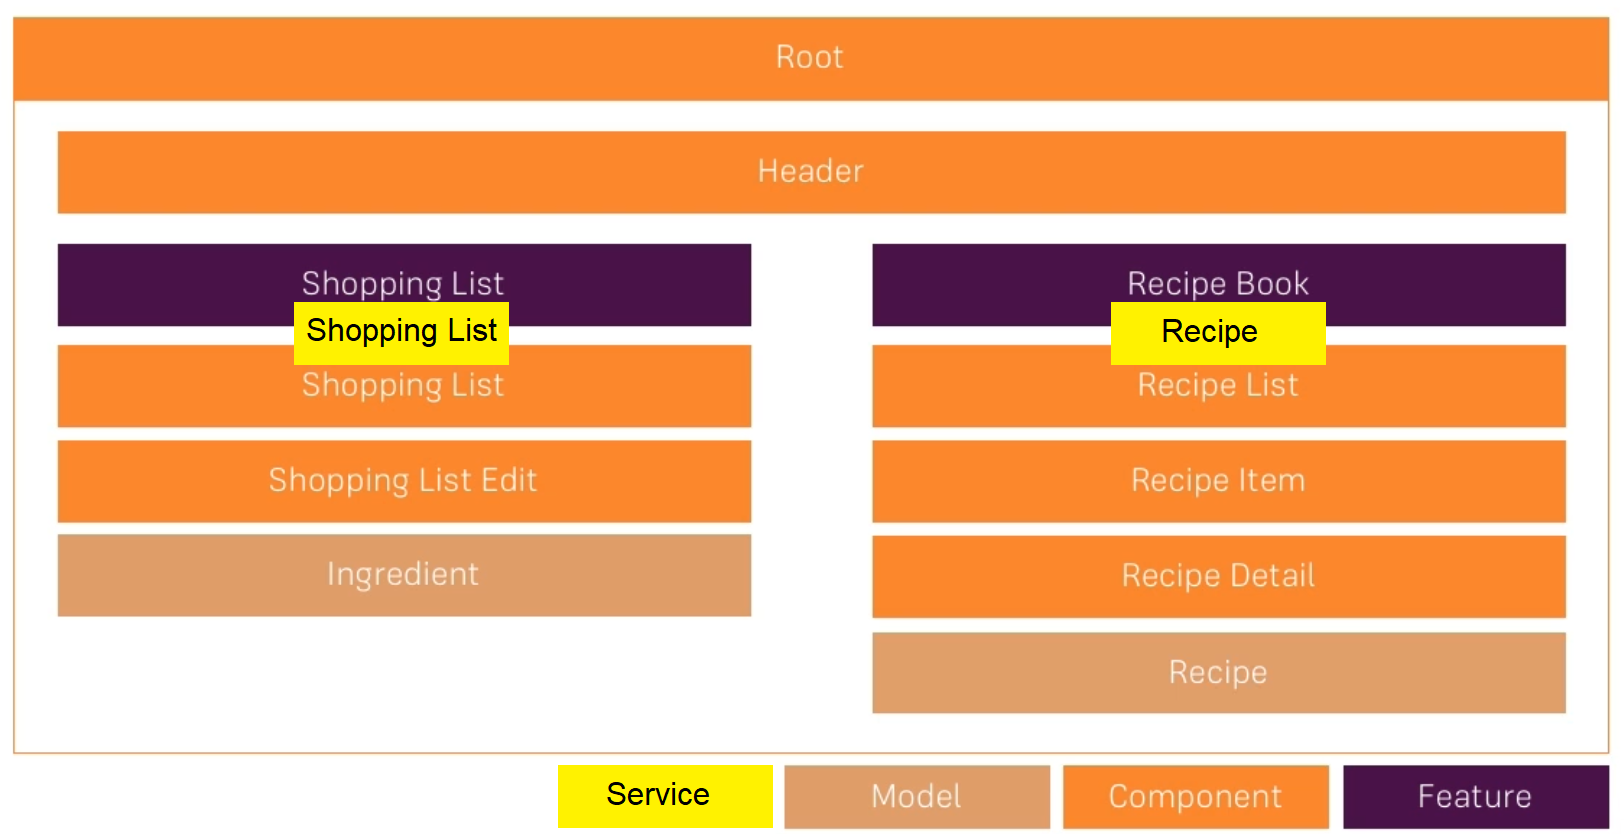
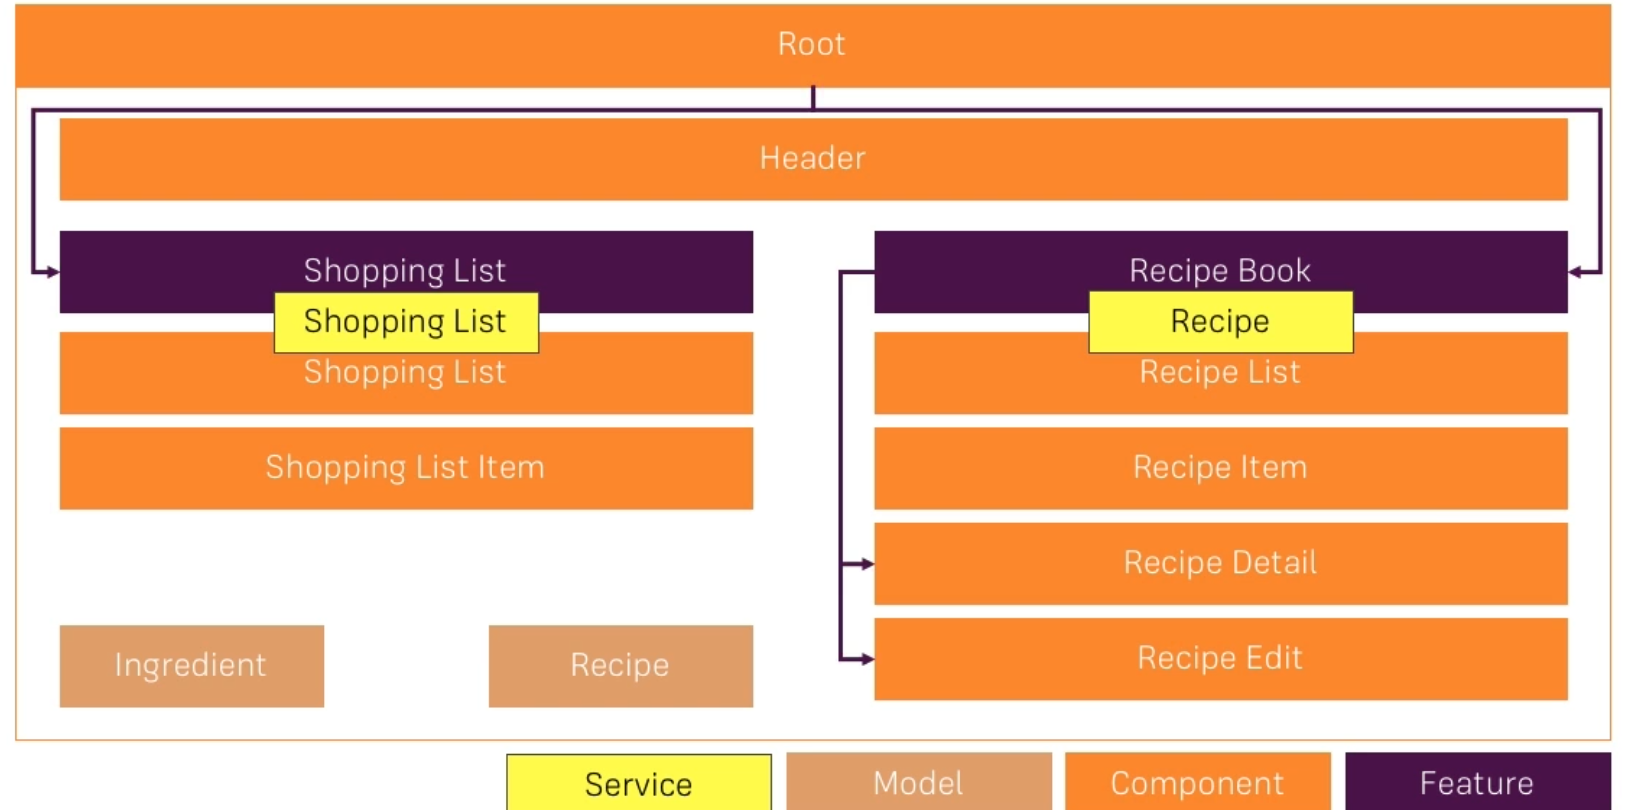
Added Routing
- changing pages using routing
- dummy recipe-edit implementation

diff --git a/src/app/header/header.component.html b/src/app/header/header.component.html
@@ -7,15 +7,15 @@
         </div>
         <div class="collapse navbar-collapse"> <!--collapse class, to access collapse styles-->
             <ul class="nav navbar-nav"> <!--unordered list(ul) for future list of items(links) -->
-                <li><a href="#" (click)="onSelect('recipe')">Recipes</a></li> <!--list item(li) containing a link to the Recipes section-->
-                <li><a href="#" (click)="onSelect('shopping-list')">Shopping List</a></li> <!--Shopping section-->
+                <li routerLinkActive="active"><a routerLink="/recipes">Recipes</a></li> <!--list item(li) containing a link to the Recipes section-->
+                <li routerLinkActive="active"><a routerLink="shopping-list">Shopping List</a></li> <!--Shopping section-->
             </ul>
             <ul class="nav navbar-nav navbar-right"> <!--another area in the header, unordered list, navbar-right used to position on the right-->
                 <li class="dropdown" appDropdown> <!--for options implemented later-->
-                    <a href="#" class="dropdown-toggle" role="button">Manage <span class="caret"></span></a> <!--content of the dropdown <span></span> represents the down arrow next to "Manage"-->
+                    <a style="cursor: pointer;" class="dropdown-toggle" role="button">Manage <span class="caret"></span></a> <!--content of the dropdown <span></span> represents the down arrow next to "Manage"-->
                     <ul class="dropdown-menu"> <!--unordered list to hold the items of the dropdown-->
-                        <li><a href="#">Save Data</a></li> <!--links for saving data-->
-                        <li><a href="#">Fetch Data</a></li> <!--links for fetching data-->
+                        <li><a style="cursor: pointer;">Save Data</a></li> <!--links for saving data-->
+                        <li><a style="cursor: pointer;">Fetch Data</a></li> <!--links for fetching data-->
                     </ul>
                 </li>
             </ul>

diff --git a/src/app/recipes/recipe-detail/recipe-detail.component.ts b/src/app/recipes/recipe-detail/recipe-detail.component.ts
@@ -1,4 +1,6 @@
-import { Component, OnInit, Input } from '@angular/core';
+import { Component, OnInit } from '@angular/core';
+import { ActivatedRoute, Params, Router } from '@angular/router';
+
 import { Recipe } from '../recipe.model';
 import { RecipeService } from '../recipe.service';
 
@@ -8,14 +10,32 @@ import { RecipeService } from '../recipe.service';
   styleUrls: ['./recipe-detail.component.css']
 })
 export class RecipeDetailComponent implements OnInit {
-  @Input() recipe: Recipe;
+  recipe: Recipe;
+  id: number;
   
-  constructor(private recipeService: RecipeService) { }
+  constructor(private recipeService: RecipeService,
+    private route: ActivatedRoute,
+    private router: Router) { }
 
   ngOnInit() {
+    this.route.params
+      .subscribe(
+        (params: Params) => {
+          this.id = params['id'];
+          this.recipe = this.recipeService.getRecipe(this.id);
+        }
+      );
   }
 
   onAddToShoppingList() {
     this.recipeService.addIngredientsToShoppingList(this.recipe.ingredients); //added functionality to push ingredients of selected recipe to the shopping list
   }
+
+  OnEditRecipe() {
+    this.router.navigate(['edit'], {relativeTo: this.route}); //id is not necessary in this case
+    // this.router.navigate(['../', this.id, 'edit'], {relativeTo: this.route}); //we go up one level -../- then we add our id again, and then edit
+  }
+
+  
+  //remember to clear up subscriptions if using personal observables, these ones are Angular managed
 }

diff --git a/src/app/app.module.ts b/src/app/app.module.ts
@@ -13,6 +13,9 @@ import { ShoppingListComponent } from './shopping-list/shopping-list.component';
 import { ShoppingEditComponent } from './shopping-list/shopping-edit/shopping-edit.component';
 import { DropdownDirective } from './shared/dropdown.directive';
 import { ShoppingListService } from './shopping-list/shopping-list.service';
+import { AppRoutingModule } from './app-routing.module';
+import { RecipeStartComponent } from './recipes/recipe-start/recipe-start.component';
+import { RecipeEditComponent } from './recipes/recipe-edit/recipe-edit.component';
 
 
 // VVVVVV Decorator
@@ -26,14 +29,17 @@ import { ShoppingListService } from './shopping-list/shopping-list.service';
     ShoppingListComponent,
     ShoppingEditComponent,
     RecipeItemComponent,
-    DropdownDirective
+    DropdownDirective,
+    RecipeStartComponent,
+    RecipeEditComponent
   ], //register new components
   imports: [
     BrowserModule,
     FormsModule,
-    HttpClientModule
+    HttpClientModule,
+    AppRoutingModule
   ], //allows us to add other modules
-  providers: [ShoppingListService],
+  providers: [ShoppingListService], //added in the AppModule so it is available in the entire application
   bootstrap: [AppComponent] //tells Angular which component needs to be aware when the app starts
 })
 export class AppModule { }

diff --git a/src/app/app-routing.module.ts b/src/app/app-routing.module.ts
@@ -1,11 +1,28 @@
 import { NgModule } from '@angular/core';
 import { Routes, RouterModule } from '@angular/router';
 
+import { RecipesComponent } from './recipes/recipes.component';
+import { ShoppingListComponent } from './shopping-list/shopping-list.component';
+import { RecipeStartComponent } from './recipes/recipe-start/recipe-start.component';
+import { RecipeDetailComponent } from './recipes/recipe-detail/recipe-detail.component';
+import { RecipeEditComponent } from './recipes/recipe-edit/recipe-edit.component';
 
-const routes: Routes = [];
+const appRoutes: Routes = [
+  { path: '', redirectTo: '/recipes', pathMatch: 'full' },
+  { path: 'recipes', component: RecipesComponent, children:[
+    { path: '', component: RecipeStartComponent },
+    { path: 'new', component: RecipeEditComponent},
+    { path: ':id', component: RecipeDetailComponent },
+    { path: ':id/edit', component: RecipeEditComponent}
+  ] },
+  { path: 'shopping-list', component: ShoppingListComponent},
+  
+];
 
 @NgModule({
-  imports: [RouterModule.forRoot(routes)],
+  imports: [RouterModule.forRoot(appRoutes)],
   exports: [RouterModule]
 })
-export class AppRoutingModule { }
+export class AppRoutingModule {
+
+}

diff --git a/src/app/recipes/recipe-list/recipe-list.component.ts b/src/app/recipes/recipe-list/recipe-list.component.ts
@@ -1,6 +1,7 @@
 import { Component, OnInit } from '@angular/core';
 import { Recipe } from '../recipe.model';
 import { RecipeService } from '../recipe.service';
+import { Router, ActivatedRoute } from '@angular/router';
 
 @Component({
   selector: 'app-recipe-list',
@@ -10,9 +11,17 @@ import { RecipeService } from '../recipe.service';
 export class RecipeListComponent implements OnInit {
   recipes: Recipe[];
 
-  constructor(private recipeService: RecipeService) { }
+  constructor(private recipeService: RecipeService,
+      private router: Router,
+      private route: ActivatedRoute) { 
+
+    }
 
   ngOnInit() {
     this.recipes = this.recipeService.getRecipes(); //used services to reduce code in components and allow for easier communication in the app
+  }
+
+  onNewRecipe() {
+    this.router.navigate(['new'], {relativeTo: this.route});
   }
 }

diff --git a/src/app/recipes/recipe-edit/recipe-edit.component.ts b/src/app/recipes/recipe-edit/recipe-edit.component.ts
@@ -1,0 +1,26 @@
+import { Component, OnInit } from '@angular/core';
+import { ActivatedRoute, Params } from '@angular/router';
+
+@Component({
+  selector: 'app-recipe-edit',
+  templateUrl: './recipe-edit.component.html',
+  styleUrls: ['./recipe-edit.component.css']
+})
+export class RecipeEditComponent implements OnInit {
+  id: number;
+  editMode = false;
+
+  constructor(private route: ActivatedRoute) { }
+
+  ngOnInit() {
+    this.route.params
+      .subscribe(
+        (params: Params) => {
+          this.id = +params['id'];
+          this.editMode = params['id'] != null; //we if if params has an 'id' property, it would be a string, if it is not NULL, it has an id then it means it is in edit mode
+        }
+      );
+  }
+
+  //remember to clear up subscriptions if using personal observables, these ones are Angular managed
+}

diff --git a/src/app/recipes/recipe-list/recipe-item/recipe-item.component.ts b/src/app/recipes/recipe-list/recipe-item/recipe-item.component.ts
@@ -1,6 +1,5 @@
 import { Component, OnInit, Input } from '@angular/core';
 import { Recipe } from '../../recipe.model';
-import { RecipeService } from '../../recipe.service';
 
 @Component({
   selector: 'app-recipe-item',
@@ -9,13 +8,8 @@ import { RecipeService } from '../../recipe.service';
 })
 export class RecipeItemComponent implements OnInit {
   @Input() recipe: Recipe;
-
-  constructor(private recipeService: RecipeService) { }
+  @Input() index: number;
 
   ngOnInit() {
-  }
-
-  onSelected(){
-    this.recipeService.recipeSelected.emit(this.recipe); //removed emitter implementation in this file and emit from the service itself
   }
 }

diff --git a/src/app/recipes/recipe-list/recipe-list.component.html b/src/app/recipes/recipe-list/recipe-list.component.html
@@ -1,6 +1,6 @@
 <div class="row">
     <div class="col-xs-12">
-        <button class="btn btn-success">
+        <button class="btn btn-success" (click)="onNewRecipe()">
             New Recipe
         </button>
     </div>
@@ -8,7 +8,8 @@
 <hr>
 <div class="row">
     <div class="col-xs-12">
-        <app-recipe-item *ngFor="let recipeElement of recipes"
-        [recipe]="recipeElement"></app-recipe-item>
+        <app-recipe-item *ngFor="let recipeElement of recipes; let i = index"
+        [recipe]="recipeElement"
+        [index]="i"></app-recipe-item>
     </div>
 </div>

diff --git a/src/app/recipes/recipe-list/recipe-item/recipe-item.component.html b/src/app/recipes/recipe-list/recipe-item/recipe-item.component.html
@@ -1,7 +1,8 @@
-<a 
-    href="#" 
-    class="list-group-item clearfix"
-    (click)="onSelected()">
+<a
+    style="cursor: pointer;"
+    [routerLink]="[index]"
+    routerLinkActive="active"
+    class="list-group-item clearfix">
     <div class="pull-left">
         <h4 class="list-group-item-heading">{{ recipe.name }}</h4>
         <p class="list-group-item-text">{{ recipe.description }}</p>
@@ -14,3 +15,5 @@
             style="max-height: 50px;">
     </span>
 </a>
+
+<!--style="cursor: pointer;" make cursor change to a hand when highlighting object-->

diff --git a/src/app/recipes/recipe-detail/recipe-detail.component.html b/src/app/recipes/recipe-detail/recipe-detail.component.html
@@ -21,8 +21,8 @@
                 </button>
                 <ul class="dropdown-menu">
                     <li><a (click)="onAddToShoppingList()" style="cursor: pointer;">To Shopping List</a></li> 
-                    <li><a href="#">Edit Recipe</a></li>
-                    <li><a href="#">Delete Recipe</a></li>
+                    <li><a style="cursor: pointer;"  (click)="OnEditRecipe()">Edit Recipe</a></li>
+                    <li><a style="cursor: pointer;">Delete Recipe</a></li>
                 </ul>
         </div>
     </div>

diff --git a/src/app/recipes/recipe.service.ts b/src/app/recipes/recipe.service.ts
@@ -42,6 +42,10 @@ export class RecipeService {
         return this.recipes.slice(); //slice returns a new array that is exactly like this one. The original cannot be accessed
     }
 
+    getRecipe(index: number) {
+        return this.recipes.slice()[index]; //copy of the object
+    }
+
     //pass the ingredients
     addIngredientsToShoppingList(ingredients: Ingredient[]) {
         this.slService.addIngredients(ingredients);

diff --git a/src/app/app.component.html b/src/app/app.component.html
@@ -1,9 +1,8 @@
-<app-header (featureSelected)="onNavigate($event)"></app-header>
+<app-header></app-header>
 <div class="container">
   <div class="row">
     <div class="col-md-12">
-        <app-recipes *ngIf="loadedFeature === 'recipe'"></app-recipes>
-        <app-shopping-list *ngIf="loadedFeature!=='recipe'"></app-shopping-list>
+        <router-outlet></router-outlet>
     </div>
   </div>
 </div>
